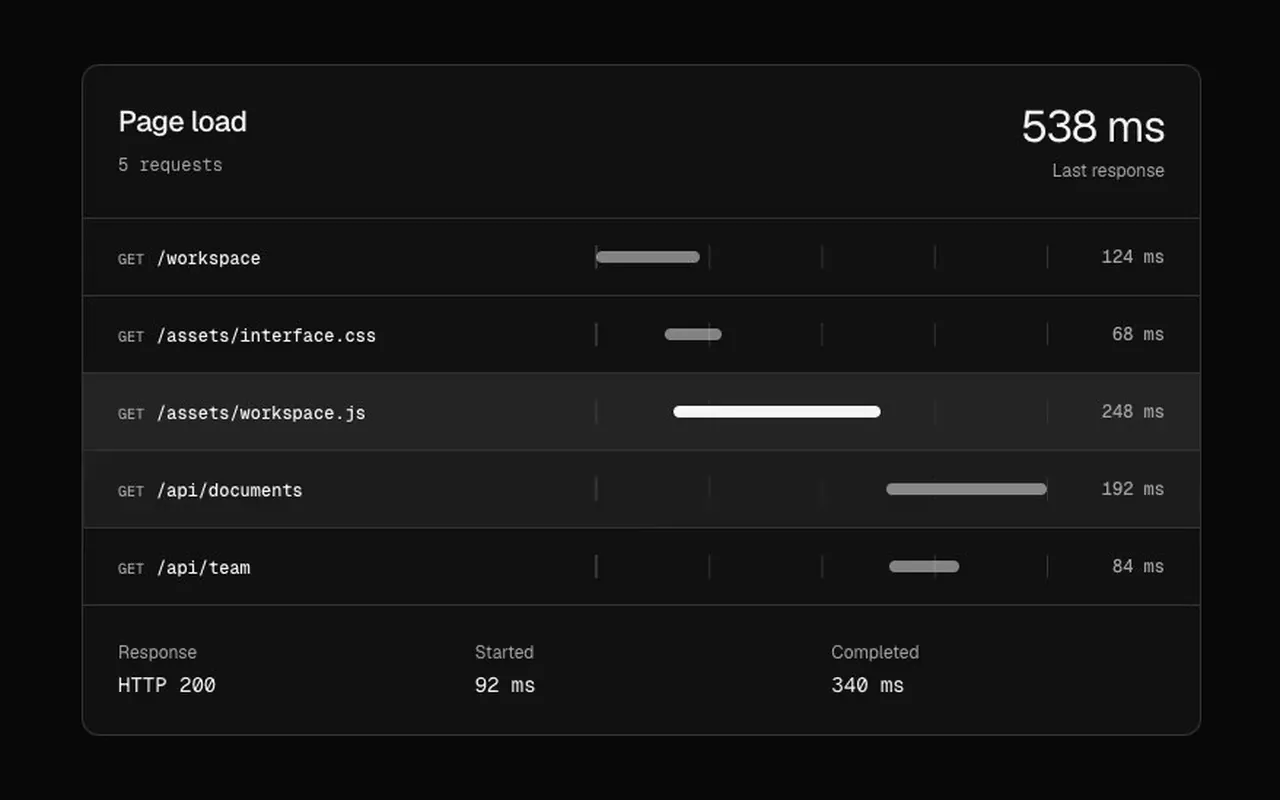
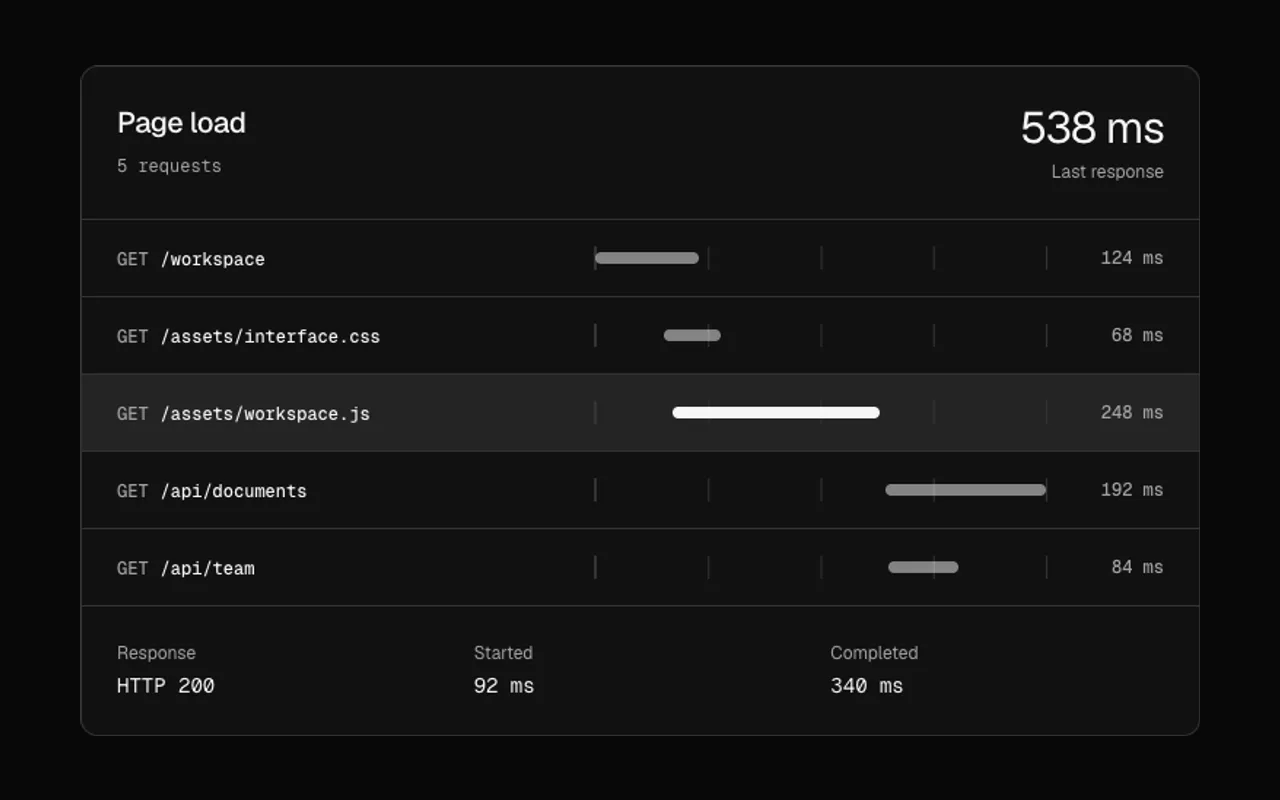
Review request timing states and retain the guarded film refresh queue

diff --git a/docs/review/HANDOFF_TASKS.md b/docs/review/HANDOFF_TASKS.md
@@ -352,7 +352,9 @@ and how to know it's done. Pick any of them up independently. Background, briefs
 
 - Task 7 (19 October): Story Deck keeps its geometric studies and manual editorial sequence. Artwork labels now use 12px metadata, and large figures wrap with their caption instead of squeezing into a narrow column. A preserved live-preference negative confirms the original 8px slide entry continued after reduced motion changed; new entries now snap while navigation retains focus. Keyboard navigation, exact index notifications, empty stories, initial-index normalization and host replacement pass. The 31-mount source review, twelve state/default accessibility audits, six widths, reviewed entrance/state captures, Next regression, theme control and official audit pass. The exact metadata replay observes all three studies in order and the disabled final Next button. Strict registry, fresh root types and all 1,066 unit tests pass. Its reviewed 3.6s film and paired poster retain the complete replay at measured 960×760 framing: maximum source gap 11ms, delivery 24.38ms and moving-frame p95 18.75ms, with no stalls and unchanged guards. The next full checkpoint has 62 suites and 75 metadata replays and remains pending. 19 components and 12 blocks remain in task 7; 114 films remain in task 1.
 
-## 1. Re-record demo videos (114 components)
+- Task 7 (19 October): Request Waterfall keeps its shared timing lanes and response inspector. Selection notifications now pass independent flat request copies, unavailable or invalid response codes have a written state, method labels use 12px metadata, and entries/details/bars settle on live reduced motion while keyboard focus remains. Original-source callback mutation, HTTP 0/NaN and live-preference failures are preserved. Keyboard selection, exact payloads, singular/empty captures, bounded extreme timings, host replacement and long paths pass. The 33-mount source review, eighteen state/default accessibility audits, six widths, reviewed entrance/state captures, Next regression, theme control and official audit pass. Its exact replay observes script/document/HTML selection and the final HTTP 200, 0ms start, 124ms completion and common scale. Strict registry, fresh root/isolated types and all 1,066 unit tests pass. The current Next poster is refreshed and reviewed. Its film refresh joins task 1 after a rejected capture measured 352.23ms changed-frame delivery; the previous movie and every timing guard remain intact. Source gap was 14ms and moving-frame p95 25.43ms. The next full checkpoint has 62 suites and 76 metadata replays and remains pending. 18 components and 12 blocks remain in task 7; 115 films remain in task 1.
+
+## 1. Re-record demo videos (115 components)
 
 Every rebuilt component's poster is current but its catalogue film (`public/previews/<slug>.mp4`) still shows the old
 version. Record them one at a time on an otherwise idle machine; the recorder rejects frame stalls under load.
@@ -371,6 +373,7 @@ slug or per small group). Notes:
 
 Slugs:
 
+`devtools-request-waterfall`
 `chart-bullet-targets`
 `chart-slope-comparison`
 `agents-budget-guard`, `agents-dependency-board`
@@ -501,16 +504,16 @@ All nine parked rebuilds are shipped in both repos. Their original `_wip/<slug>`
 | finance-budget-variance | Completed 17 October: Next probe, dark/light accessibility, responsive and entrance/state captures, live demo and refreshed poster pass. |
 | finance-cashflow-dashboard | Completed 17 October: weekly balance and in/out bars, movable payments, independent pending saves, invalid-data guards, selected-week list geometry, Next probe/demo, both-theme accessibility, responsive/state/entrance captures and refreshed poster pass. |
 
-## 7. Continue the review (19 components, then 12 blocks)
+## 7. Continue the review (18 components, then 12 blocks)
 
-Same process as the 179 already done: hold each to the first ~100 components' standard. Briefs:
+Same process as the 180 already done: hold each to the first ~100 components' standard. Briefs:
 `docs/review/REVIEW_BRIEF.md`, `docs/review/SUITE_BRIEF.md` for industry components, suite languages in
 `docs/review/suites/`. Work newest first, about four components per batch, and verify each (build, tsc, tests,
 check-component, your own captures of states and mid-entrance frames, a refreshed poster, a rewritten pro-50 probe for
 industry components).
 
 - **Commerce** is reviewed. Keep `block-commerce-workspace` compatible with its rebuilt parts.
-- **Smaller components** (#151–179): devtools-request-waterfall, devtools-json-inspector,
+- **Smaller components** (#151–179): devtools-json-inspector,
   media-before-after, data-kanban-compact, data-file-explorer, forms-preference-center, date-week-agenda,
   onboarding-setup-checklist, date-booking-slots, input-file-dropzone, input-shortcut-recorder,
   feedback-empty-search, navigation-pagination-window, primitives-shortcut-reference, selects-radio-cards,

diff --git a/docs/review/STATUS.md b/docs/review/STATUS.md
@@ -1,6 +1,6 @@
 # Review status
 
-179 components are rebuilt (or, for a few, polished), verified and committed. For each: whether its demo video
+180 components are rebuilt (or, for a few, polished), verified and committed. For each: whether its demo video
 needs re-recording, whether its poster is current, and the state of its browser regression probe.
 
 - **Video**: `new` means `public/previews/<slug>.mp4` still shows the old version. Re-record serially on a quiet machine:
@@ -17,9 +17,11 @@ posters and queued film refreshes. See the latest checkpoint in `HANDOFF_TASKS.m
 
 Story Deck also passes its 31-mount source review, twelve accessibility audits, six widths, Next regression,
 theme control and exact three-study replay. Its reviewed 3.6s film and paired poster pass every recording guard.
-The next full batch checkpoint has 62 suites and 75 metadata replays and remains pending.
+Request Waterfall also passes its 33-mount source review, eighteen accessibility audits, Next workflow,
+theme control and exact request replay. Its reviewed Next poster is current; the rejected film remains queued.
+The next full batch checkpoint has 62 suites and 76 metadata replays and remains pending.
 
-Remaining queues: **19 components, 12 blocks, 59 dedicated probes and 114 films**.
+Remaining queues: **18 components, 12 blocks, 59 dedicated probes and 115 films**.
 
 ## Previous input checkpoint (19 October 2026)
 
@@ -319,3 +321,4 @@ See [the handoff checkpoint](HANDOFF_TASKS.md#8-final-release-checks) for revisi
 | Slug | Video | Poster | Probe |
 | --- | --- | --- | --- |
 | `media-story-deck` | current | current | Keyboard navigation, exact index notifications, empty stories, initial-index normalization, host replacement and live reduced motion pass. A preserved old-source negative confirms the 8px live-preference regression. The 31-mount source review, twelve state/default accessibility audits, six widths, reviewed entrance/state captures, Next regression, theme control, official audit and exact three-study replay pass. Large figures remain readable at 320px. Strict registry, fresh root types and all 1,066 unit tests pass. Reviewed 3.6s film and paired poster retain the complete measured replay, with every recording guard intact. |
+| `devtools-request-waterfall` | new | current | Independent selection payloads, unavailable statuses, keyboard selection, exact timings, empty/singular captures, host replacement, long paths and live reduced motion pass. Original callback-mutation, HTTP 0/NaN and live-preference failures are preserved. The 33-mount source review, eighteen state/default accessibility audits, six widths, reviewed entrance/state captures, Next regression, theme control, official audit and exact three-request replay pass. Strict registry, fresh root/isolated types and all 1,066 unit tests pass. The refreshed Next poster is reviewed. Film refresh stays queued after the unchanged delivery guard rejected 352.23ms; the previous movie is preserved. |
